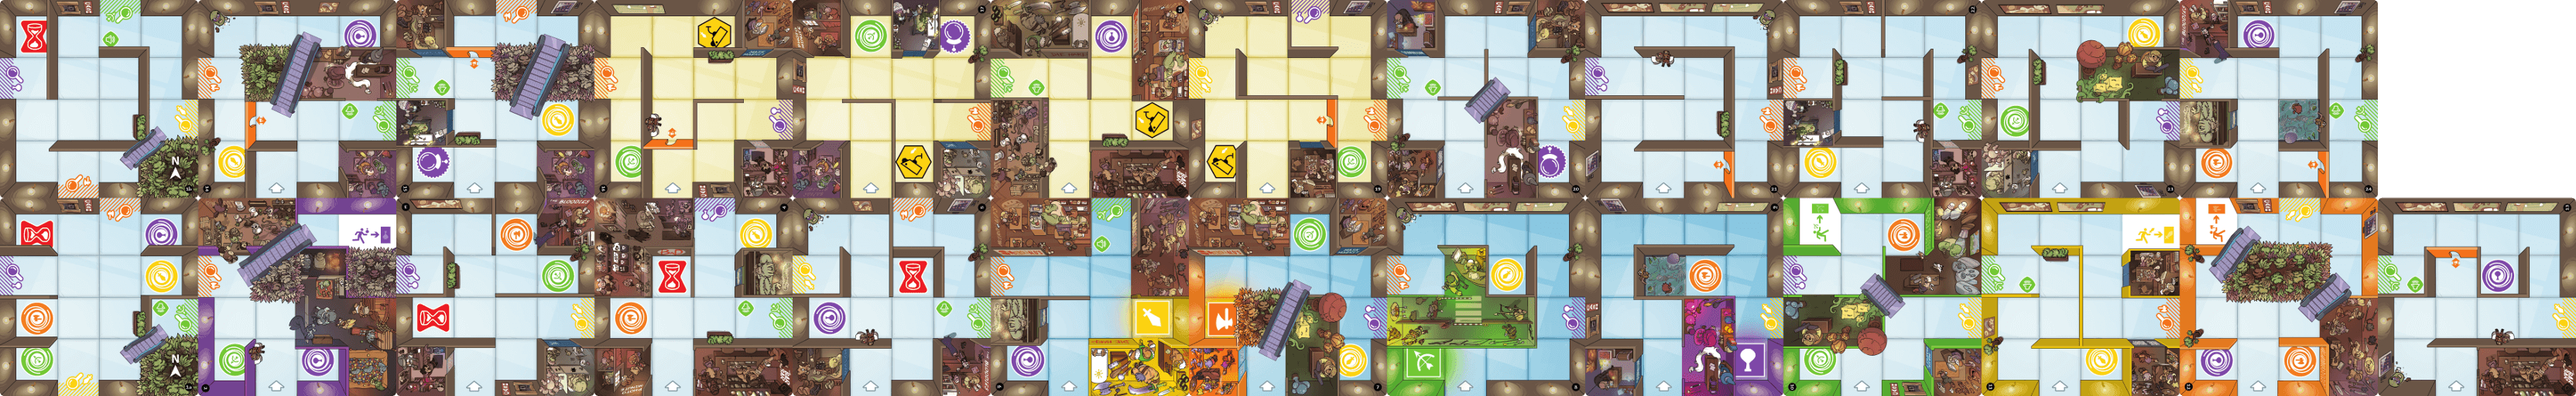
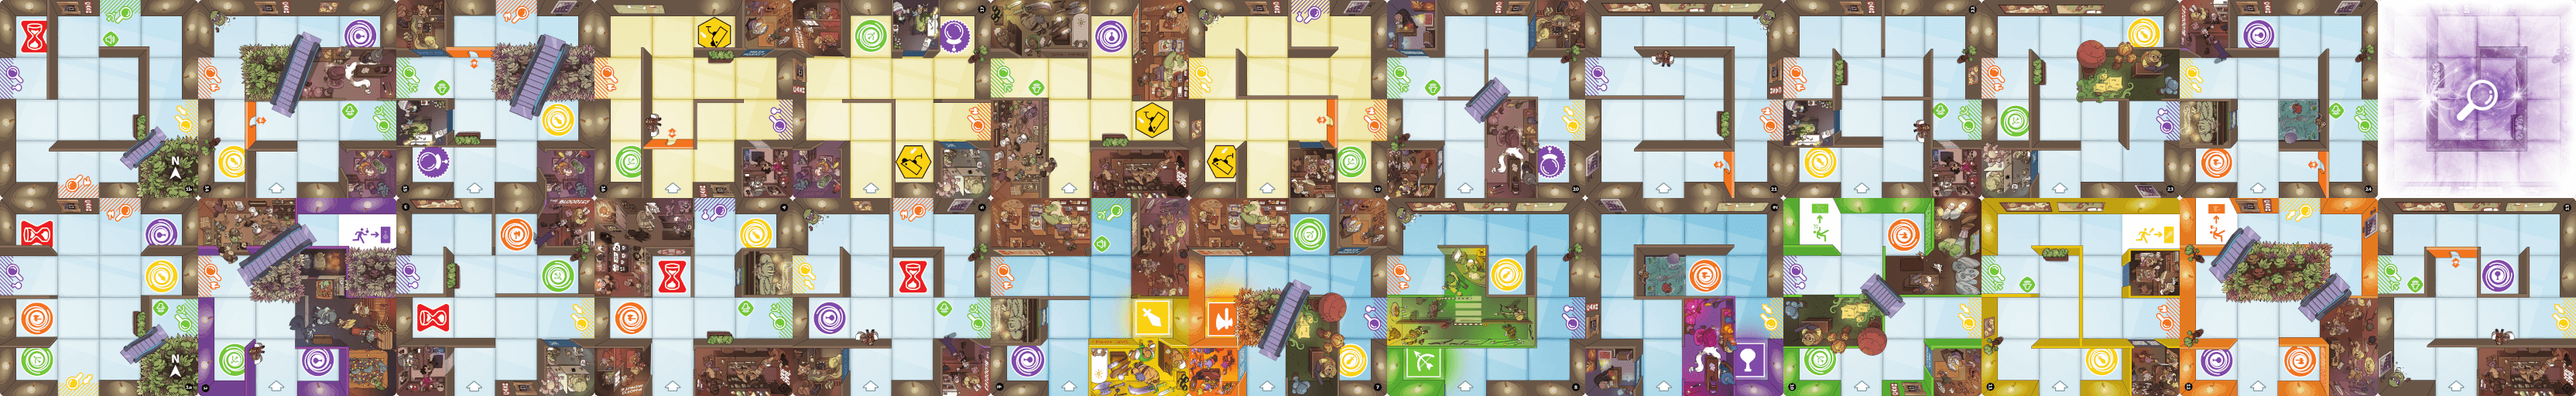
Explore-on-the-grid implementation part 1
Allow people to click on explore tiles in the grid instead
of using the control box. Move the tile previews to the grid.

diff --git a/magicmaze.js b/magicmaze.js
@@ -103,9 +103,7 @@ function dispatchMove (obj, tokenId, arr) {
     }
   }
   obj.ajaxcall(path,
-    arg, this, function (result) {
-      console.log(result)
-    }, function (error) { console.log(error) })
+    arg, this, function (result) {}, function (error) { if (error) console.log(error) })
 }
 
 function updateWarpHighlight (dojo, obj) {
@@ -191,10 +189,14 @@ function setupAbilities (dojo, obj) {
 
 function previewNextTile (obj, dojo, info) {
   const tileId = parseInt(info.tile_id)
-  dojo.create('div', {
-    class: `tile${tileId}`
-  }, $('mm_next_explore'))
-  dojo.query('#mm_next_explore_container').style('visibility', 'visible')
+  // TODO Maybe consider disabling this feature. It makes it much easier.
+  obj.previewElements.forEach(function (value) {
+    const newEl = dojo.create('div', {
+      class: `tile${tileId}`
+    }, value)
+    dojo.style(newEl, 'transform', `rotate(${value.mm_rot}deg)`)
+    dojo.style(newEl, 'opacity', '0.6')
+  })
 }
 
 function placeTile (obj, tile) {
@@ -202,6 +204,16 @@ function placeTile (obj, tile) {
   dojo.query('#mm_next_explore_container').style('visibility', 'hidden')
   const x = parseInt(tile.position_x)
   const y = parseInt(tile.position_y)
+
+  obj.previewElements.forEach(function (value, key, map) {
+    if (value.mm_key === getKey(x, y)) {
+      dojo.destroy(value)
+      map.delete(key)
+    } else {
+      value.innerHTML = ''
+    }
+  })
+
   const screenCoords = toScreenCoords(x, y)
   dojo.create('div', {
     class: `tile${tile.tile_id}`,
@@ -231,8 +243,6 @@ function drawProperties (obj, properties) {
     for (let i = 0; i < properties.warp.length; ++i) {
       const warp = properties.warp[i]
       const key = getKey(warp.position_x, warp.position_y)
-      // XXX: this doesn't work
-      // if (key in obj.clickableCells) continue
       if (obj.clickableCells.has(key)) continue
       const cellLeft = obj.lefts.get(key)
       const cellTop = obj.tops.get(key)
@@ -287,6 +297,7 @@ function drawProperties (obj, properties) {
     for (let i = 0; i < properties.explore.length; ++i) {
       const explore = properties.explore[i]
       const key = getKey(explore.position_x, explore.position_y)
+      const tokenId = parseInt(explore.token_id)
       const cellLeft = obj.lefts.get(key)
       const cellTop = obj.tops.get(key)
       if (obj.clickableCells.has(key)) continue
@@ -306,6 +317,7 @@ function drawProperties (obj, properties) {
           obj.relativexs.get(key), obj.relativeys.get(key), false, false)
       }
       obj.clickableCells.set(key, el)
+      obj.explores.set(key, tokenId)
     }
   }
 }
@@ -343,6 +355,7 @@ function clampLevel (level) {
 function placeCharacter (obj, info) {
   const x = parseInt(info.position_x)
   const y = parseInt(info.position_y)
+  const tokenId = parseInt(info.token_id)
   const key = getKey(x, y)
   const top = obj.tops.get(key)
   const left = obj.lefts.get(key)
@@ -354,6 +367,69 @@ function placeCharacter (obj, info) {
     top + adjust,
     /* duration */ 200).play()
   obj.rescale()
+
+  if (obj.previewElements.has(tokenId)) {
+    // If two meeples can explore in the same location, we'll just
+    // overlap two divs and only one will be deleted.
+    // XXX this doesn't work if one of them arrives later.
+    dojo.destroy(obj.previewElements.get(tokenId))
+    obj.previewElements.delete(tokenId)
+  }
+
+  if (obj.explores.get(key) !== tokenId) {
+    return
+  }
+  if (obj.tilesRemain === 0) {
+    return
+  }
+  // XXX do not display preview if we're already in an explore step!
+  // XXX mage move. Add "purple explore tiles" wherever we can (z-index lower than
+  // normal explores) whenever the mage is on an unused crystal. Then if wizexplore state
+  // advances, we put all of those previews in there.
+
+  const relativeloc = getKey(obj.relativexs.get(key), obj.relativeys.get(key))
+  // NB this map looks different than the PHP one because the PHP one maps tile -> tile
+  // whereas we're mapping meeple_loc -> new_tile_loc
+  const dx = new Map([
+    ['2_0', [-1, -4]],
+    ['3_2', [1, -1]],
+    ['1_3', [-2, 1]],
+    ['0_1', [-4, -2]]
+  ]).get(relativeloc)
+  if (dx === undefined) {
+    throw new Error(`internal error: explore on unexpected space ${relativeloc}`)
+  }
+  const newx = x + dx[0]
+  const newy = y + dx[1]
+  if (obj.tileIds.has(getKey(newx, newy))) {
+    return
+  }
+  const screenCoords = toScreenCoords(newx, newy)
+  const rot = new Map([
+    ['2_0', 0],
+    ['3_2', 90],
+    ['1_3', 180],
+    ['0_1', -90]
+  ]).get(relativeloc)
+  if (rot === undefined) {
+    throw new Error(`internal error: explore on unexpected space ${relativeloc}`)
+  }
+  // TODO: factor this with the placeTile impl
+  const el = dojo.create('div', {
+    class: 'mm_preview_tile',
+    style: {
+      position: 'absolute',
+      left: (screenCoords[0] - BORDER_WIDTH) + 'px',
+      top: (screenCoords[1] - BORDER_WIDTH) + 'px'
+    }
+  }, $('mm_area_scrollable_oversurface'))
+  el.mm_key = getKey(newx, newy)
+  el.mm_rot = rot
+  dojo.connect(el, 'onclick', obj, function (evt) {
+    dispatchMove(obj, tokenId, [0])
+  })
+  obj.previewElements.set(tokenId, el)
+  // XXX next thing to do is put the tile preview
 }
 
 function fromEntries (iterable) {
@@ -382,6 +458,8 @@ function (dojo, declare) {
       this.tileIds = new Map()
       this.relativexs = new Map()
       this.relativeys = new Map()
+      this.explores = new Map()
+      this.previewElements = new Map() // coord key -> dom element
       this.clickableCells = new Map()
       this.visualCells = new Map()
       this.scrollmap = new ebg.scrollmap() // eslint-disable-line new-cap
@@ -405,6 +483,7 @@ function (dojo, declare) {
       }
 
       this.flips = gamedatas.flips
+      this.tilesRemain = gamedatas.tiles_remain
 
       if (gamedatas.time_left) {
         this.deadline = (Date.now() / 1000.0) + parseFloat(gamedatas.time_left)
@@ -423,10 +502,6 @@ function (dojo, declare) {
       }
 
       drawProperties(this, gamedatas.properties)
-      if (gamedatas.next_tile) {
-        previewNextTile(this, dojo, gamedatas.next_tile)
-      }
-
       for (const key in gamedatas.tokens) {
         placeCharacter(this, gamedatas.tokens[key])
         const tokenId = gamedatas.tokens[key].token_id
@@ -497,6 +572,11 @@ function (dojo, declare) {
       dojo.connect($('mm_objectives_container'), 'onclick', this, function (evt) {
         objEl.style('visibility', 'hidden')
       })
+
+      // Needs to be after placeCharacter
+      if (gamedatas.next_tile) {
+        previewNextTile(this, dojo, gamedatas.next_tile)
+      }
 
       // This needs to access some properties created earlier, do this as late as possible.
       setupAbilities(dojo, this)

diff --git a/magicmaze.css b/magicmaze.css
@@ -89,16 +89,21 @@
   user-select: none;
 }
 
-.mm_zoom {
-
-}
-
 .debug {
   background-color: #00b;
   opacity: .3;
   border-style: solid;
   border-width: 1px;
 }
+
+.mm_preview_tile {
+  width: 256px;
+  height: 256px;
+  background: url('img/t.png') -3072px 0px;
+}
+/* These aren't prefixed with mm_ for legacy reasons but
+   if you fix this, you need to make sure onZoomFit also does
+   not break! Also, these need to be AFTER mm_preview_tile. */
 .tile0 {
   width: 256px;
   height: 256px;
@@ -224,6 +229,7 @@
   height: 256px;
   background: url('img/t.png') -2816px 0px;
 }
+
 
 #mm_token0 {
   width: 30px;

diff --git a/magicmaze.game.php b/magicmaze.game.php
@@ -147,6 +147,7 @@ class MagicMaze extends Table {
         $result['properties']['used'] = self::getObjectListFromDB($sql);
 
         $result['flips'] = self::getGameStateValue('num_flips');
+        $result['tile_remain'] = self::getGameStateValue('tiles_remain');
         $deadline = floatval(self::getGameStateValue('timer_deadline_micros'));
         if ($deadline !== -1.) {
             // Subtract three seconds here because getAllDatas() is part of some complicated
@@ -349,6 +350,7 @@ class MagicMaze extends Table {
                     $ret[$type][] = array(
                         'position_x' => $oldx,
                         'position_y' => $oldy,
+                        'token_id' => $color,
                     );
                     $propertystring .= "($oldx, $oldy, $color, '$type')";
                 }

diff --git a/modules/mm-sql.php b/modules/mm-sql.php
@@ -203,6 +203,9 @@ not exists (
 SQL;
 }
 
+// We already can't explore from these spaces (would error during tile placement),
+// but we shouldn't lock tokens that are on "used explores" if an explore is started
+// from elsewhere.
 function deleteUnneededExplores($id) {
     return <<<SQL
 delete from properties where
